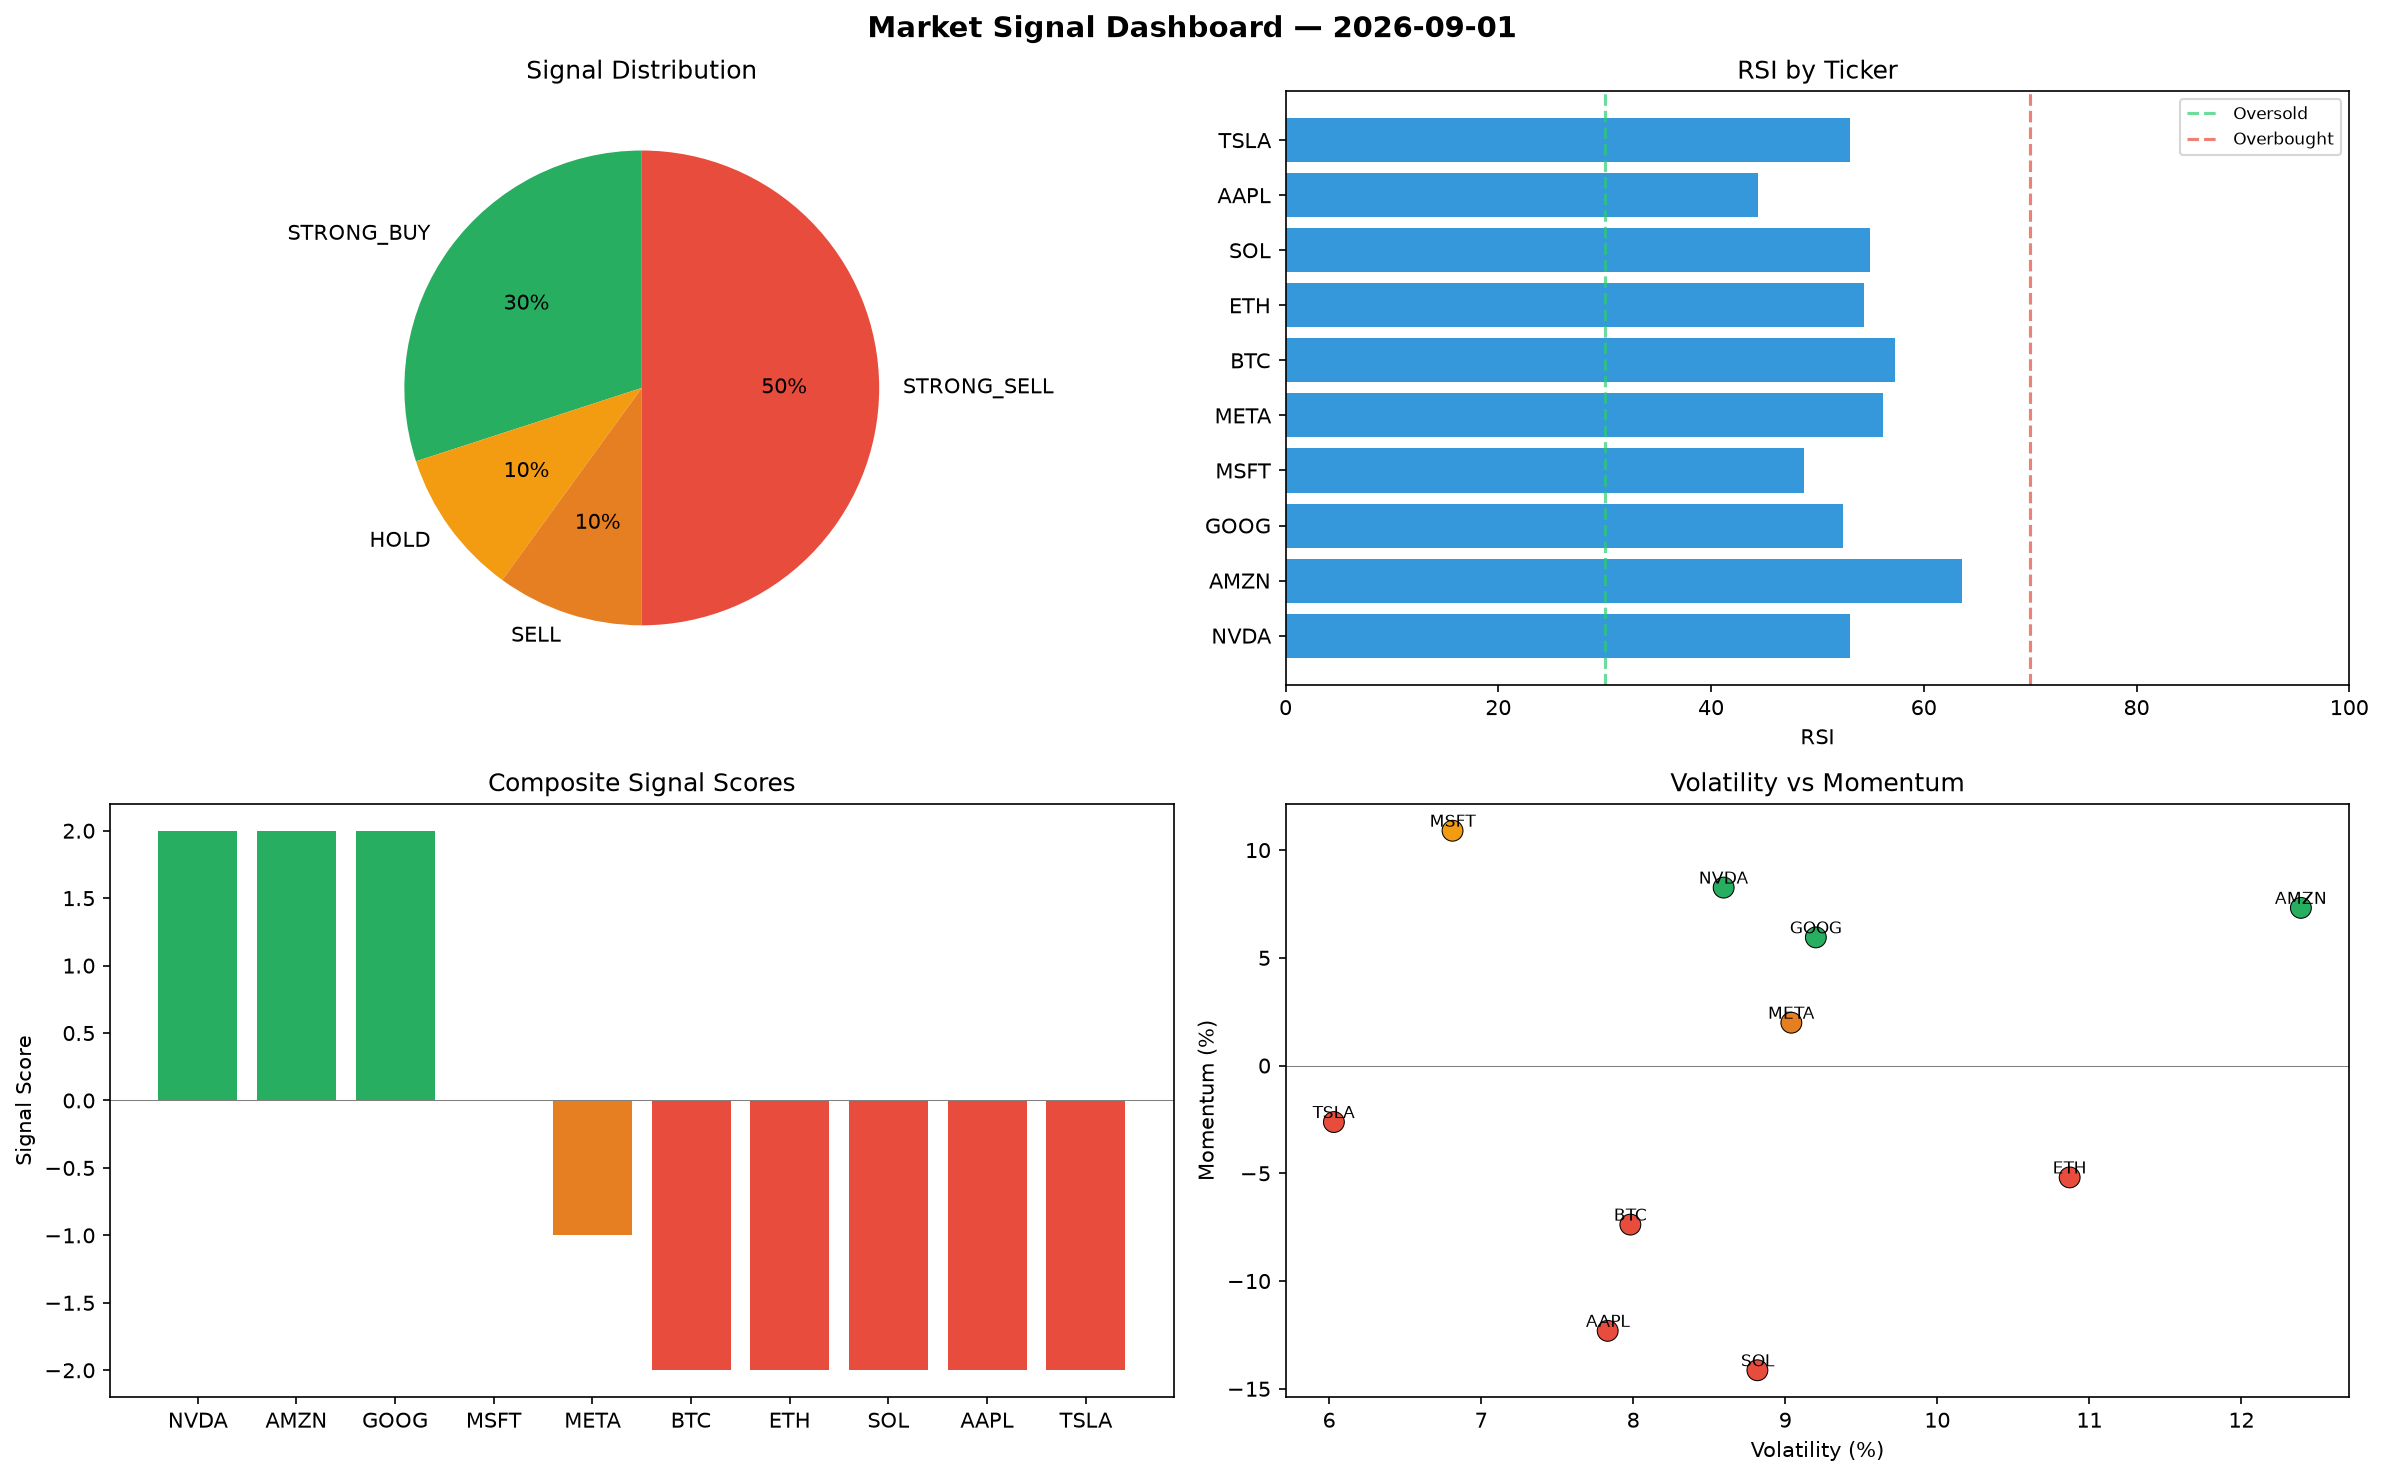
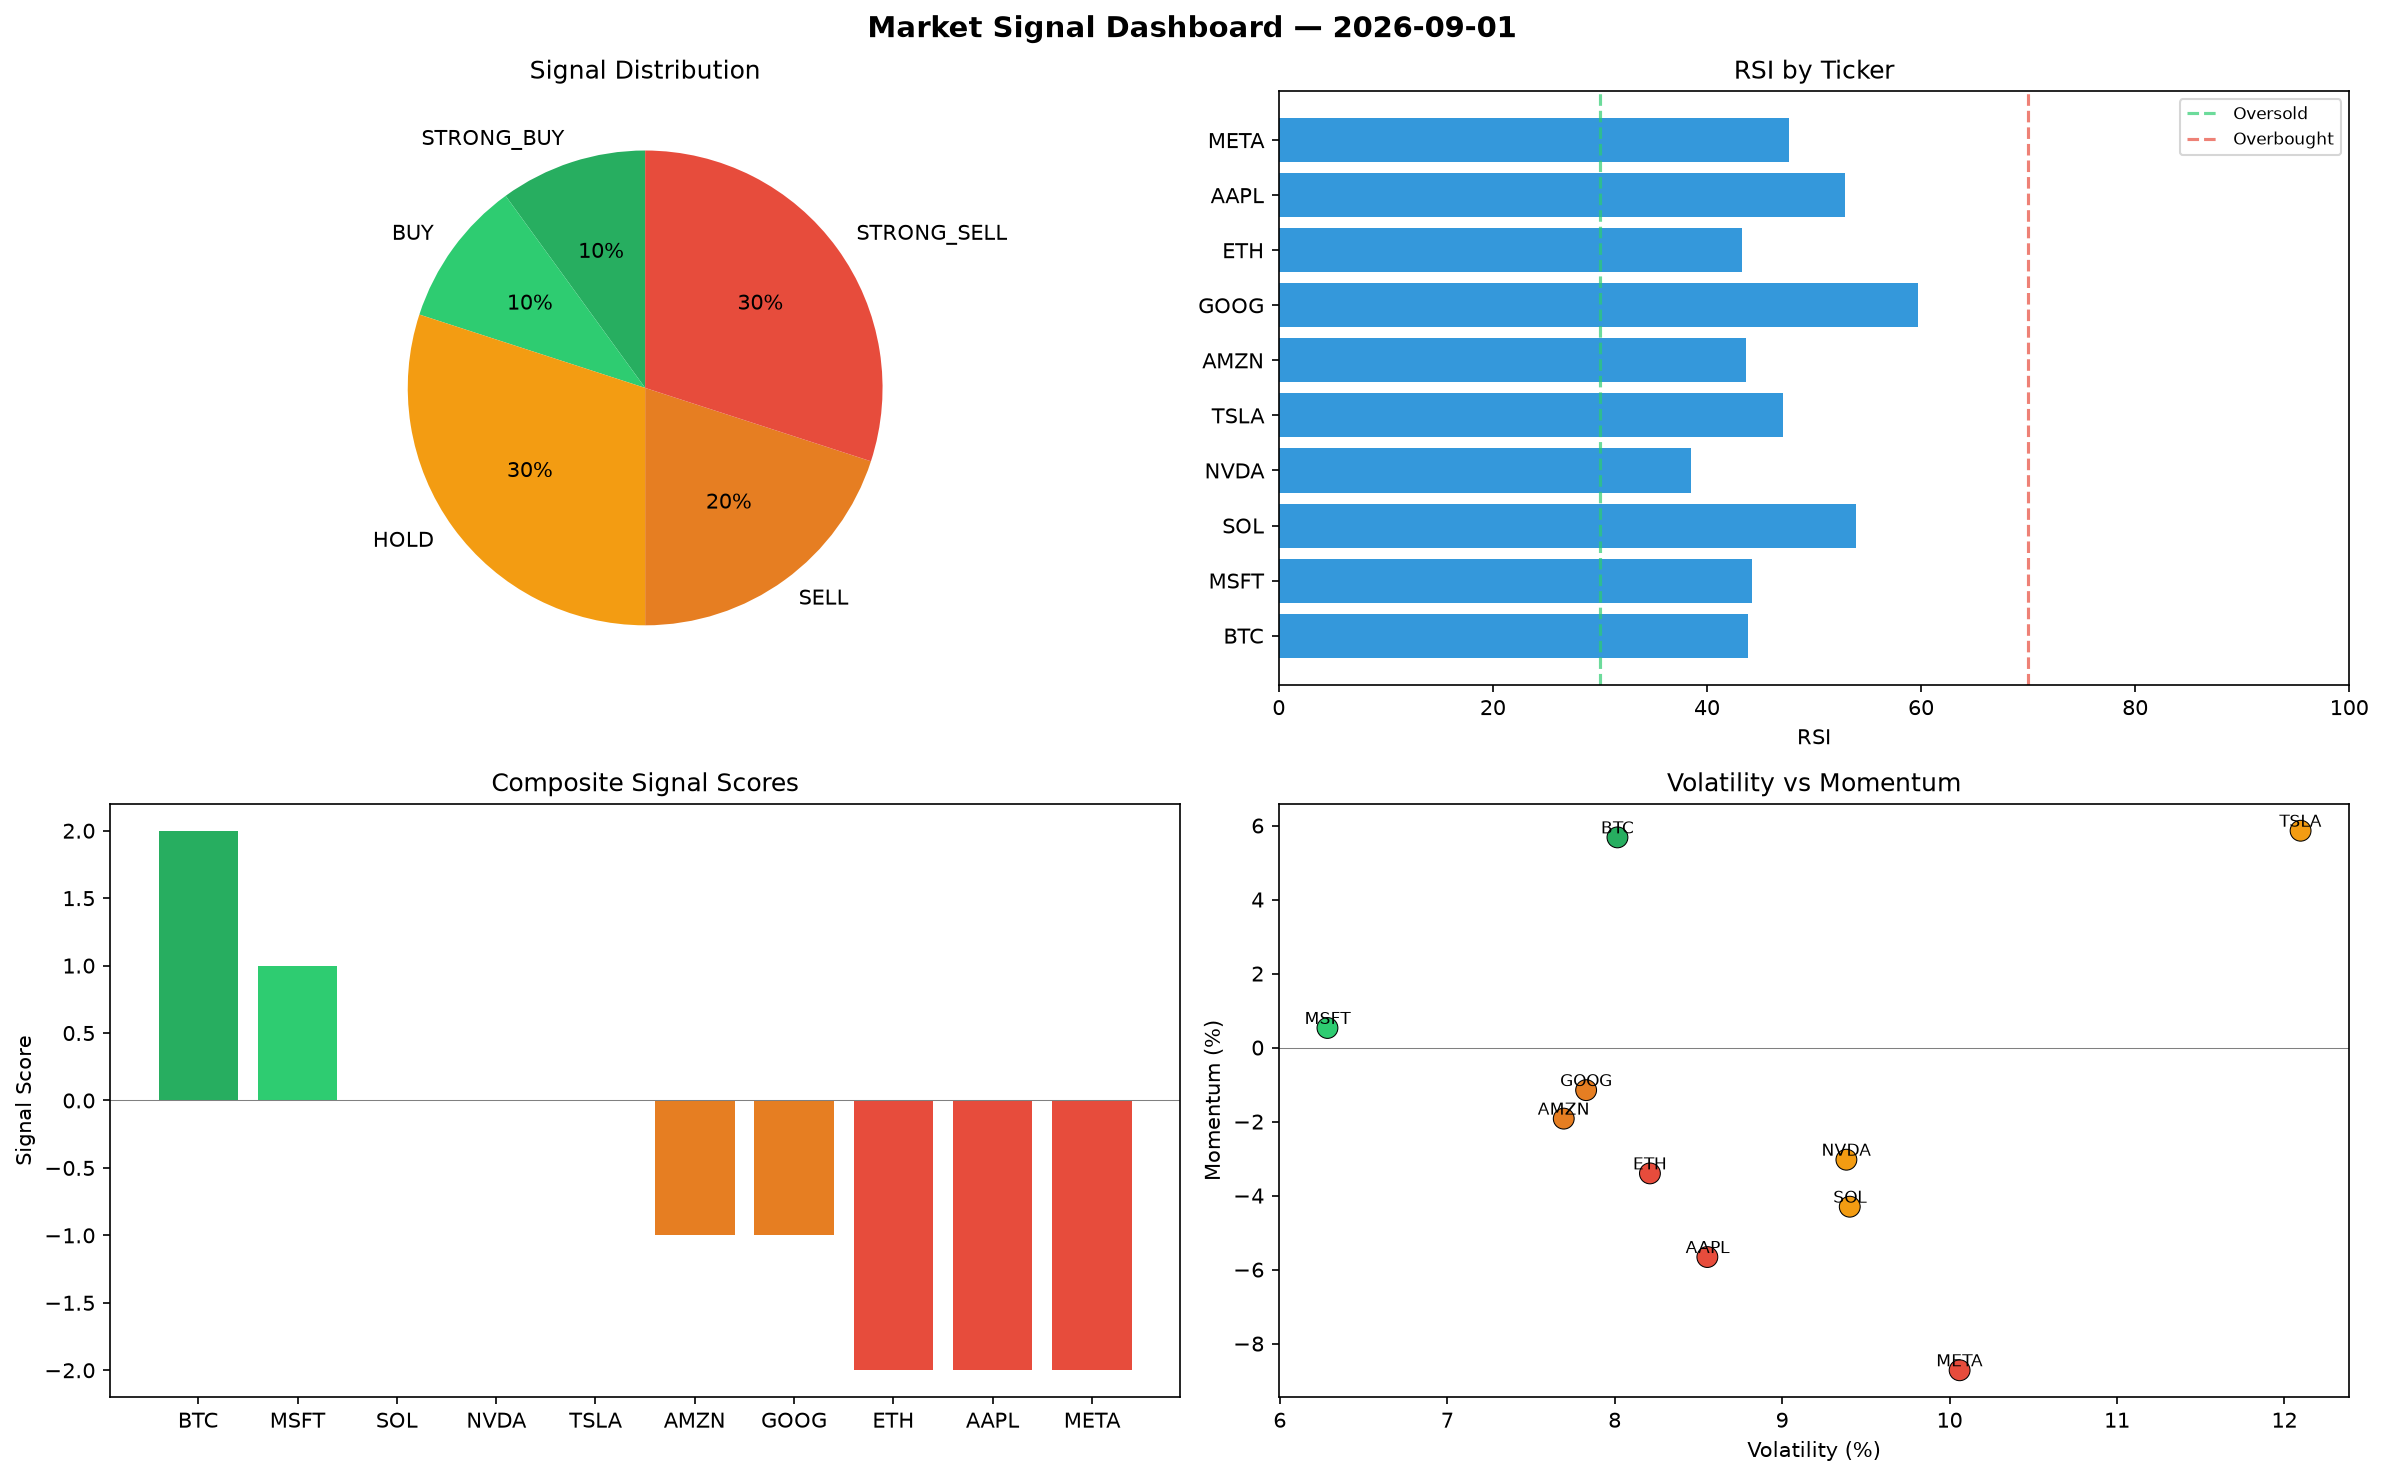
automated-bots: market signals 2026-09-01T13:35

diff --git a/logs/2026-09-01.md b/logs/2026-09-01.md
@@ -1,6 +1,6 @@
 # Market Signal Report — 2026-09-01
 
-**Run ID:** `017d54303f` | **Buy:** 3 | **Sell:** 6 | **Hold:** 1
+**Run ID:** `d0aa883805` | **Buy:** 2 | **Sell:** 5 | **Hold:** 3
 
 ![Dashboard](2026-09-01_dashboard.png)
 
@@ -8,28 +8,28 @@
 
 | Ticker | Price | Signal | Score | RSI | Momentum | Confidence |
 |--------|-------|--------|-------|-----|----------|------------|
-| NVDA | $1135.13 | **STRONG_BUY** | 2 | 53.07 | 0.0826 | 0.5 |
-| AMZN | $541.69 | **STRONG_BUY** | 2 | 63.61 | 0.0732 | 0.5 |
-| GOOG | $4756.63 | **STRONG_BUY** | 2 | 52.43 | 0.0595 | 0.5 |
-| MSFT | $2146.17 | **HOLD** | 0 | 48.72 | 0.109 | 0.0 |
-| META | $2515.0 | **SELL** | -1 | 56.19 | 0.0199 | 0.25 |
-| BTC | $3674.33 | **STRONG_SELL** | -2 | 57.26 | -0.0738 | 0.5 |
-| ETH | $1750.61 | **STRONG_SELL** | -2 | 54.36 | -0.0519 | 0.5 |
-| SOL | $3485.22 | **STRONG_SELL** | -2 | 54.99 | -0.1414 | 0.5 |
-| AAPL | $841.01 | **STRONG_SELL** | -2 | 44.43 | -0.1231 | 0.5 |
-| TSLA | $1861.77 | **STRONG_SELL** | -2 | 53.06 | -0.0262 | 0.5 |
+| BTC | $93.38 | **STRONG_BUY** | 2 | 43.85 | 0.0568 | 0.5 |
+| MSFT | $3885.11 | **BUY** | 1 | 44.22 | 0.0053 | 0.25 |
+| SOL | $3040.9 | **HOLD** | 0 | 53.92 | -0.043 | 0.0 |
+| NVDA | $1883.29 | **HOLD** | 0 | 38.52 | -0.0303 | 0.0 |
+| TSLA | $2233.19 | **HOLD** | 0 | 47.07 | 0.0586 | 0.0 |
+| AMZN | $3784.62 | **SELL** | -1 | 43.69 | -0.0192 | 0.25 |
+| GOOG | $2529.13 | **SELL** | -1 | 59.73 | -0.0115 | 0.25 |
+| ETH | $2452.58 | **STRONG_SELL** | -2 | 43.28 | -0.034 | 0.5 |
+| AAPL | $216.0 | **STRONG_SELL** | -2 | 52.94 | -0.0566 | 0.5 |
+| META | $805.0 | **STRONG_SELL** | -2 | 47.68 | -0.0872 | 0.5 |
 
 ## Delta vs Yesterday
 
 | Ticker | Today | Yesterday | Price Change | Signal Changed |
 |--------|-------|-----------|-------------|----------------|
-| NVDA | STRONG_BUY | HOLD | 📉 -75.08% | ⚠ YES |
-| AMZN | STRONG_BUY | BUY | 📉 -89.03% | ⚠ YES |
-| GOOG | STRONG_BUY | STRONG_SELL | 📈 66.96% | ⚠ YES |
-| MSFT | HOLD | SELL | 📉 -33.43% | ⚠ YES |
-| META | SELL | STRONG_BUY | 📈 1995.31% | ⚠ YES |
-| BTC | STRONG_SELL | HOLD | 📈 16.28% | ⚠ YES |
-| ETH | STRONG_SELL | STRONG_BUY | 📉 -60.39% | ⚠ YES |
-| SOL | STRONG_SELL | STRONG_BUY | 📈 198.78% | ⚠ YES |
-| AAPL | STRONG_SELL | STRONG_SELL | 📉 -71.61% | — |
-| TSLA | STRONG_SELL | STRONG_SELL | 📉 -13.4% | — |
+| BTC | STRONG_BUY | HOLD | 📉 -97.04% | ⚠ YES |
+| MSFT | BUY | SELL | 📈 20.52% | ⚠ YES |
+| SOL | HOLD | STRONG_BUY | 📈 160.69% | ⚠ YES |
+| NVDA | HOLD | HOLD | 📉 -58.66% | — |
+| TSLA | HOLD | STRONG_SELL | 📈 3.87% | ⚠ YES |
+| AMZN | SELL | BUY | 📉 -23.37% | ⚠ YES |
+| GOOG | SELL | STRONG_SELL | 📉 -11.23% | ⚠ YES |
+| ETH | STRONG_SELL | STRONG_BUY | 📉 -44.51% | ⚠ YES |
+| AAPL | STRONG_SELL | STRONG_SELL | 📉 -92.71% | — |
+| META | STRONG_SELL | STRONG_BUY | 📈 570.67% | ⚠ YES |
